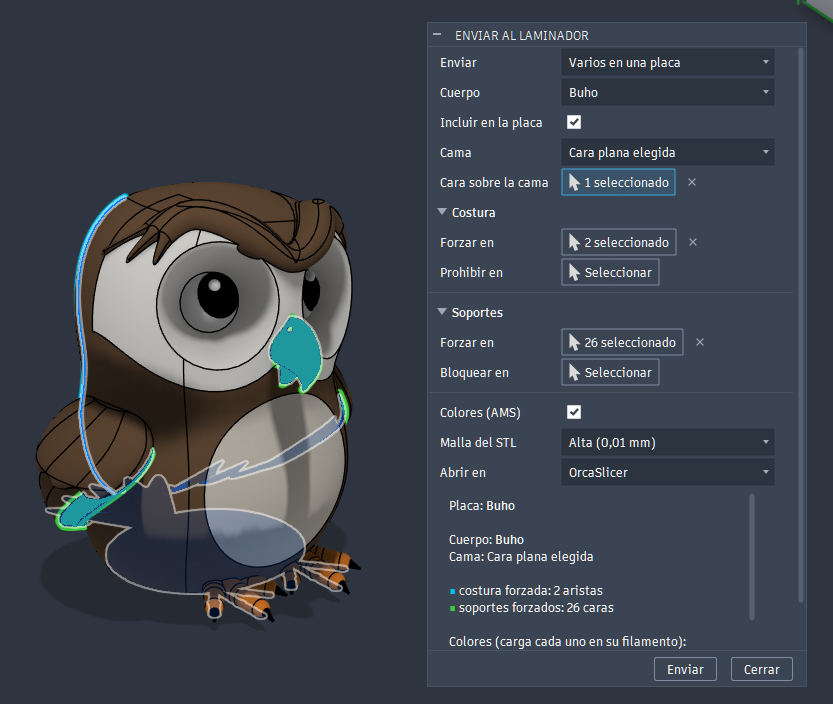
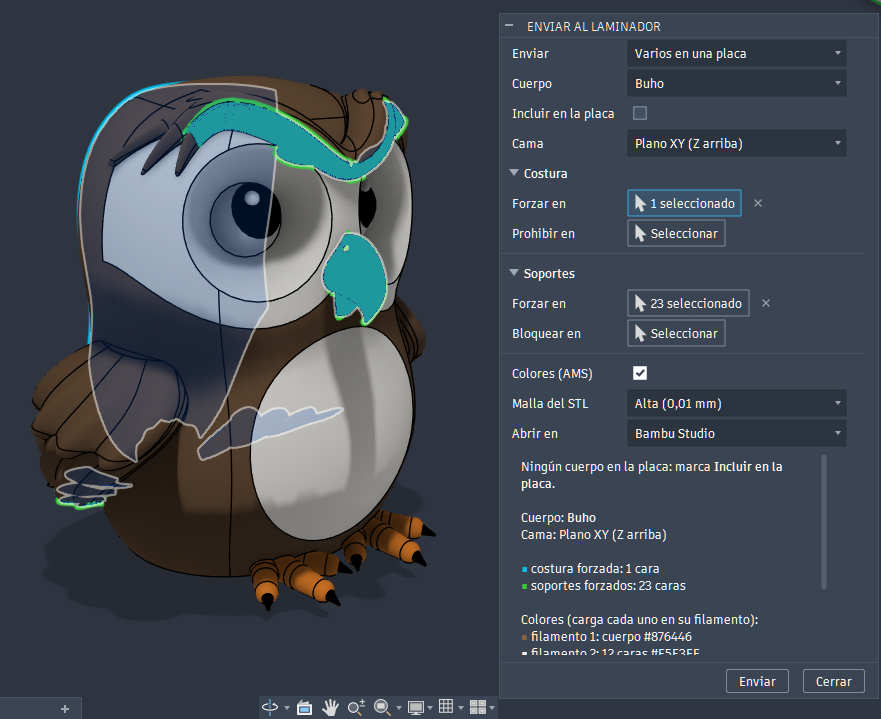
README: Enviar al laminador con el búho de 4 colores en Bambu Studio
Capturas nuevas del diálogo, del 3MF en Bambu Studio (colores, costura
en la espalda y soportes solo donde hacen falta) y del laminado con
soportes en árbol. Quitada la captura de OrcaSlicer.

diff --git a/README.md b/README.md
@@ -105,19 +105,23 @@ Tercer botón, en **DISEÑO > INSPECCIONAR > Enviar al laminador**. Lleva una pi
 
 ![Enviar al laminador](img/laminador.png)
 
-El búho de demostración, enviado en una placa: la cama es una cara plana elegida, la costura se fuerza en dos aristas (cian) y los soportes en 26 caras (verde). Con *Colores (AMS)*, *Resultado* lista cada color con su filamento.
+El búho de demostración, en 4 colores (uno por bobina del AMS), sobre el plano XY. La costura se fuerza en la cara de la espalda (cian) y los soportes solo donde hacen falta, en 23 caras (verde): la ceja, el pico y las puntas de las alas que cuelgan sobre la cama. Con *Colores (AMS)*, *Resultado* lista cada color con su filamento.
 
-![El búho en OrcaSlicer](img/laminador-orca.png)
+![El búho en Bambu Studio](img/laminador-bambu.png)
 
-El mismo 3MF en OrcaSlicer: la pieza llega orientada y cada cara va al filamento de su color, con la torre de purga. En el laminador se ven los colores de los filamentos cargados, no los aspectos de Fusion.
+El 3MF en Bambu Studio: cada cara va al filamento de su color, con la torre de purga. En el laminador se ven los colores de los filamentos del proyecto, no los aspectos de Fusion.
 
-![La costura en OrcaSlicer](img/laminador-costura.png)
+![La costura en Bambu Studio](img/laminador-costura.png)
 
-Visto por detrás, con la herramienta de pintar la costura de OrcaSlicer: la costura forzada llega pintada en la arista elegida en Fusion. Orca la marca en verde, que es su color para forzar.
+Visto por detrás, con la herramienta de pintar la costura de Bambu Studio: la cara de la espalda llega pintada para forzar la costura.
 
-![Los soportes en OrcaSlicer](img/laminador-soportes.png)
+![Los soportes en Bambu Studio](img/laminador-soportes.png)
 
-Y con la de pintar soportes: las caras elegidas bajo las alas y el pico llegan pintadas para forzar soportes.
+Y con la de pintar soportes: la ceja, el pico y las puntas de las alas llegan pintados para forzar soportes.
+
+![El búho laminado en Bambu Studio](img/laminador-corte.png)
+
+Laminado con soportes en árbol (manual) y *Solo en la placa*: los árboles salen de la cama, rodean el cuerpo y llegan a la ceja y al pico. Fuera de lo pintado no hay soportes.
 
 | Campo | Qué hace |
 |---|---|

diff --git a/README.en.md b/README.en.md
@@ -105,19 +105,23 @@ Third button, in **DESIGN > INSPECT > Send to slicer**. Takes a part from Fusion
 
 ![Send to slicer](img/laminador.png)
 
-The demo owl, sent on a plate: the bed is a chosen flat face, the seam is enforced on two edges (cyan) and supports on 26 faces (green). With *Colours (AMS)*, *Result* lists each colour with its filament.
+The demo owl, in 4 colours (one per AMS spool), on the XY plane. The seam is enforced on the back face (cyan) and supports only where they are needed, on 23 faces (green): the brow, the beak and the wing tips hanging over the bed. With *Colours (AMS)*, *Result* lists each colour with its filament.
 
-![The owl in OrcaSlicer](img/laminador-orca.png)
+![The owl in Bambu Studio](img/laminador-bambu.png)
 
-The same 3MF in OrcaSlicer: the part arrives oriented and each face goes to the filament of its colour, with the prime tower. The slicer shows the colours of the loaded filaments, not the Fusion appearances.
+The 3MF in Bambu Studio: each face goes to the filament of its colour, with the prime tower. The slicer shows the colours of the project's filaments, not the Fusion appearances.
 
-![The seam in OrcaSlicer](img/laminador-costura.png)
+![The seam in Bambu Studio](img/laminador-costura.png)
 
-Seen from behind, with OrcaSlicer's seam painting tool: the enforced seam arrives painted on the edge chosen in Fusion. Orca marks it in green, its colour for enforcing.
+Seen from behind, with Bambu Studio's seam painting tool: the back face arrives painted to enforce the seam.
 
-![The supports in OrcaSlicer](img/laminador-soportes.png)
+![The supports in Bambu Studio](img/laminador-soportes.png)
 
-And with the support painting tool: the faces chosen under the wings and the beak arrive painted to enforce supports.
+And with the support painting tool: the brow, the beak and the wing tips arrive painted to enforce supports.
+
+![The owl sliced in Bambu Studio](img/laminador-corte.png)
+
+Sliced with tree (manual) supports and *On build plate only*: the trees grow from the bed, go around the body and reach the brow and the beak. There are no supports outside the painted areas.
 
 | Field | What it does |
 |---|---|
